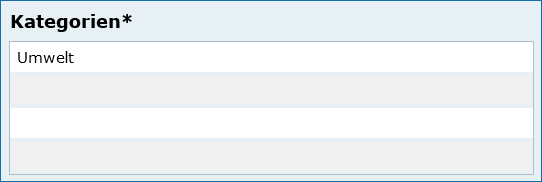
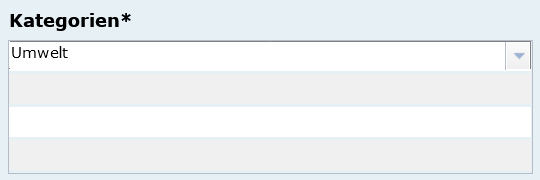
Aktualisierung

Changed region(s): [[0.0, 0.2222, 1.0, 1.0], [0.0, 0.0, 1.0, 0.0278], [0.0, 0.0556, 0.2667, 0.1944]]

diff --git a/docs/metaver_ige/ige_erfassung/erfassung-objekte.rst b/docs/metaver_ige/ige_erfassung/erfassung-objekte.rst
@@ -180,6 +180,8 @@ Adresse mit Objekt verknüpfen
 
 Abb.: Verknüpfung mit den Adressen
 
+`Auswahlliste Adressen <https://metaver-bedienungsanleitung.readthedocs.io/de/latest/metaver_ige/ige_auswahllisten/auswahlliste_allgemeines_adressen.html>`_
+
 Über den Link „Adresse hinzufügen“ wird die Adressverknüpfung angelegt. Als Auswahlmöglichkeit stehen alle im Adressstrukturbaum des Metadatenkataloges eingetragenen Adressdaten zur Verfügung.
 
 
@@ -228,12 +230,14 @@ Nach der Aktivierung sind zusätzlich folgende Angaben verpflichtend:
 Kategorien
 ''''''''''
 
-.. image:: ../../img_ige/metaver_ige/ige_erfassung/ige_objekte/ige_abschnitt-02_allgemeines/ige-allgemeines_open-data-kategorien_auswahlliste.png
+.. image:: ../../img_ige/metaver_ige/ige_erfassung/ige_objekte/ige_abschnitt-02_allgemeines/ige-allgemeines_open-data-kategorien.png
   :width: 350
 
-Abb.: Auswahlliste - Open Data Kategorien
+Abb.: Auswahlfeld - Open Data Kategorien
 
-Die Tabelle „Kategorien“ enthält eine Auswahlliste, die das Open-Data-Objekt näher bestimmen.
+`Auswahlliste der Open Data Kategorien <https://metaver-bedienungsanleitung.readthedocs.io/de/latest/metaver_ige/ige_auswahllisten/auswahlliste_allgemeines_kategorien.html>`_
+
+Die Tabelle „Kategorien“ enthält eine Auswahlliste, die das OpenData-Objekt näher bestimmen.
 
 
 Abschnitt Verschlagwortung
@@ -371,7 +375,7 @@ Abschnitt Datenqualität
 
 .. image:: ../../img_ige/metaver_ige/ige_erfassung/ige_objekte/ige_abschnitt-05_datenqualitaet/ige-abschnitt_datenqualitaet.png
 
-Dieser Abschnitt wird nur in der `Objektklasse Geodatensatz <https://metaver-bedienungsanleitung.readthedocs.io/de/latest/metaver_ige/ige_erfassung/ige_objektklassen/objektklasse-geodatensatz.html>`_ angezeigt und wir darunter beschrieben.
+Dieser Abschnitt wird nur in der `Objektklasse Geodatensatz <https://metaver-bedienungsanleitung.readthedocs.io/de/latest/metaver_ige/ige_erfassung/ige_objektklassen/objektklasse-geodatensatz.html>`_ angezeigt und wird auch darunter beschrieben.
 
 
 Abschnitt Raumbezugssystem

diff --git a/docs/metaver_ige/ige_auswahllisten/auswahlliste_allgemeines_opendata-kategorien.rst b/docs/metaver_ige/ige_auswahllisten/auswahlliste_allgemeines_opendata-kategorien.rst
@@ -1,0 +1,25 @@
+
+Open Data Kategorien
+====================
+
+ - Bevölkerung und Gesellschaft
+ - Bildung, Kultur und Sport
+ - Energie
+ - Gesundheit
+ - Internationale Themen
+ - Justiz, Rechtssystem und öffentliche Sicherheit
+ - Landwirtschaft, Fischerei, Forstwirtschaft und Nahrungsmittel
+ - Regierung und öffentlicher Sektor
+ - Regionen und Städte
+ - Umwelt
+ - Verkehr
+ - Wirtschaft und Finanzen
+ - Wissenschaft und Technologie
+
+
+
+
+
+
+
+
